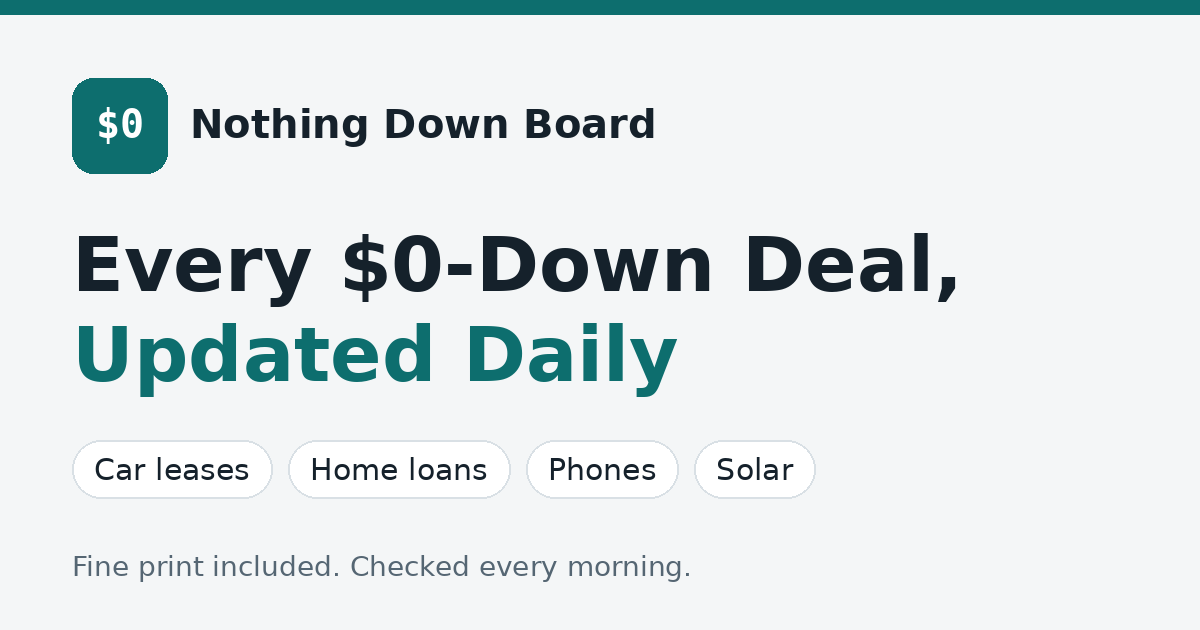
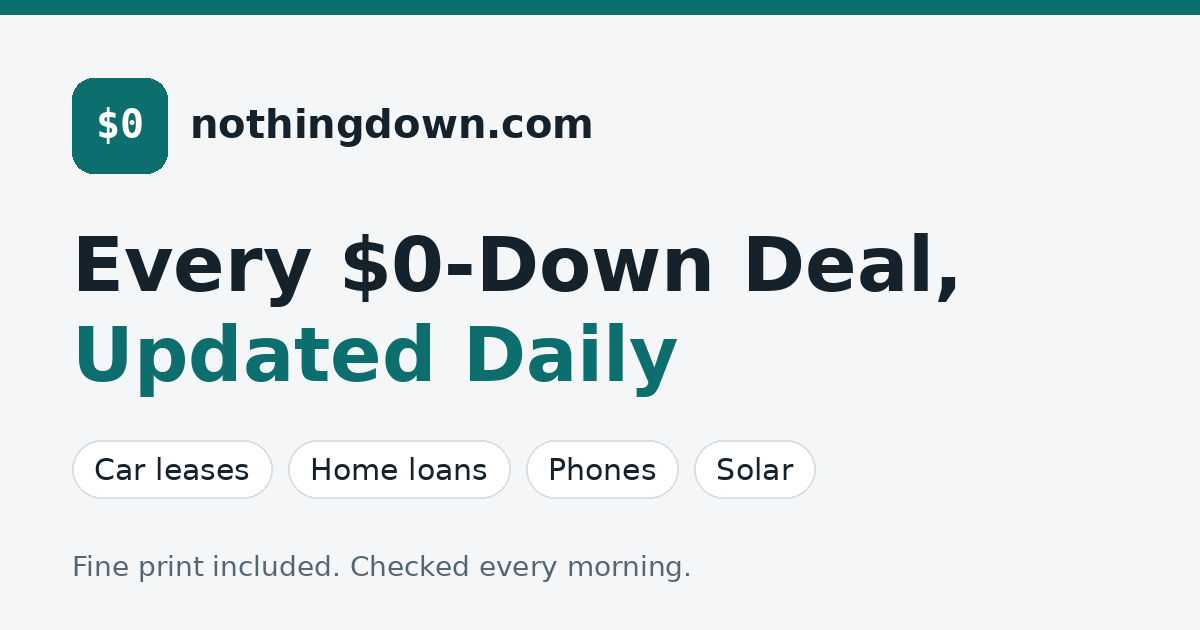
Rename site to nothingdown.com
Claude-Session: https://claude.ai/code/session_01WtqkE9ncinpvBxjiPZeFHx

Changed region(s): [[0.1542, 0.1508, 0.555, 0.2413]]

diff --git a/src/site.js b/src/site.js
@@ -41,7 +41,7 @@
   document.addEventListener("click", function (e) {
     var b = e.target.closest(".share"); if (!b) return;
     var url = location.origin + b.dataset.url;
-    var data = { title: b.dataset.title, text: b.dataset.title + " — found on Nothing Down Board", url: url };
+    var data = { title: b.dataset.title, text: b.dataset.title + " — found on nothingdown.com", url: url };
     if (navigator.share) {
       navigator.share(data).catch(function () {});
     } else if (navigator.clipboard && navigator.clipboard.writeText) {

diff --git a/build.py b/build.py
@@ -1,5 +1,5 @@
 #!/usr/bin/env python3
-"""Build the Nothing Down Board website.
+"""Build the nothingdown.com website.
 
 Reads site.json and data/offers.json, writes a complete static site to public/.
 Standard library only, so it runs on Netlify's default build image:

diff --git a/guides.py b/guides.py
@@ -1,4 +1,4 @@
-"""Guide landing pages for Nothing Down Board.
+"""Guide landing pages for nothingdown.com.
 
 Each guide is a list of content blocks rendered by build.py.
 Text may use [link text](/path) for internal links and {placeholders}

diff --git a/README.md b/README.md
@@ -1,4 +1,4 @@
-# Nothing Down Board website
+# nothingdown.com website
 
 Every $0-Down Deal, Updated Daily. A static site that Netlify rebuilds from `data/offers.json` each time it changes.
 
